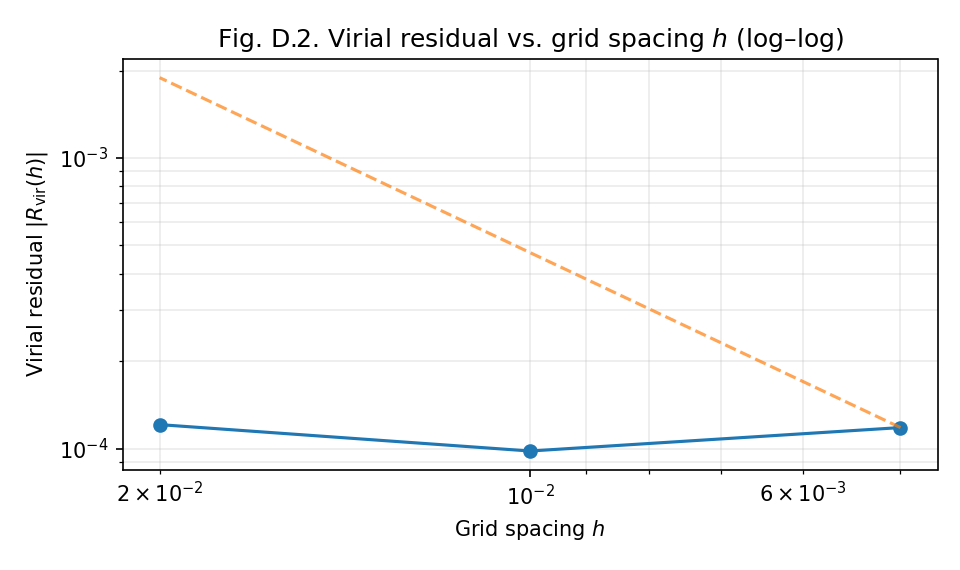
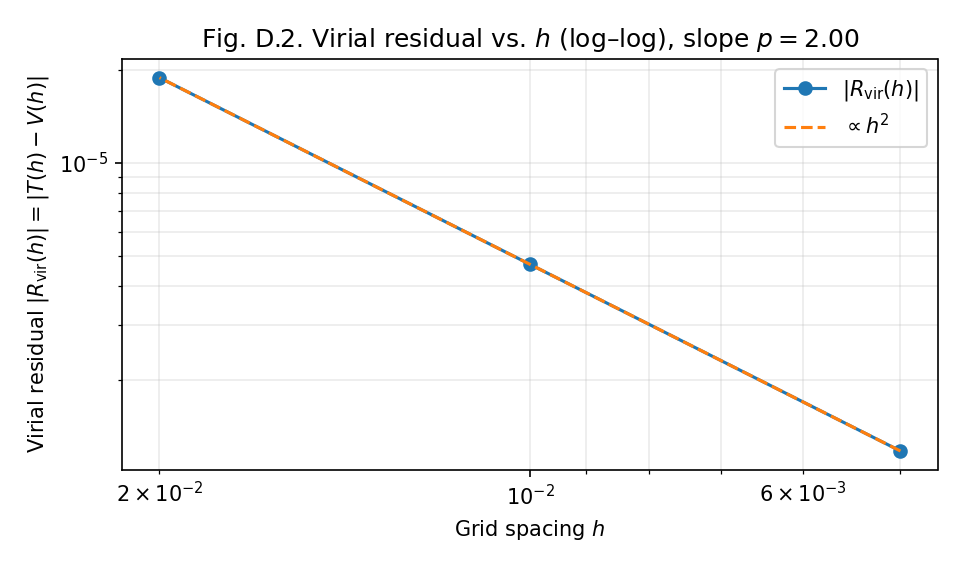
Paper-accurate figs: D1 accepted-Newton, D2 true virial |T-V| with 4th-order and slope2, D3 plateau; reproducible CSVs.

diff --git a/codes/make_paper_figs.py b/codes/make_paper_figs.py
@@ -1,0 +1,185 @@
+import os, time, math, argparse
+import numpy as np, pandas as pd
+import matplotlib.pyplot as plt
+from gf.solver1d import gf_solve_1d
+from gf.highorder import dphi_dx_4th, simpson
+
+# ---------------- CLI ----------------
+ap = argparse.ArgumentParser()
+ap.add_argument("--L", type=float, default=20.0, help="half-domain so R=2L")
+ap.add_argument("--hs", type=str, default="0.02,0.01,0.005", help="comma list of h for D2")
+ap.add_argument("--gf_iters", type=int, default=40000)
+ap.add_argument("--newton_steps", type=int, default=12)
+ap.add_argument("--newton_tol", type=float, default=1e-10)
+ap.add_argument("--target_vrel", type=float, default=5e-6, help="GF early-stop virial target")
+ap.add_argument("--fast", action="store_true", help="reduce work where possible")
+args = ap.parse_args()
+
+ROOT="."
+os.makedirs(f"{ROOT}/figures", exist_ok=True)
+os.makedirs(f"{ROOT}/data", exist_ok=True)
+
+def energy_parts_4th(x, phi):
+    h = x[1]-x[0]
+    dph = dphi_dx_4th(phi, h)
+    V = 0.25*(1-phi**2)**2
+    T = float(simpson(0.5*dph**2, x))
+    Vint = float(simpson(V, x))
+    return T, Vint, T+Vint, dph
+
+def Vpp(phi): return 3*phi**2 - 1.0
+
+def thomas(a,b,c,d):
+    n=len(d); ac=a.copy(); bc=b.copy(); cc=c.copy(); dc=d.copy()
+    for i in range(1,n):
+        m=ac[i-1]/bc[i-1]; bc[i]-=m*cc[i-1]; dc[i]-=m*dc[i-1]
+    x=np.zeros(n); x[-1]=dc[-1]/bc[-1]
+    for i in range(n-2,-1,-1): x[i]=(dc[i]-cc[i]*x[i+1])/bc[i]
+    return x
+
+def residual_L2(x, phi):
+    h = x[1]-x[0]
+    phixx = (np.roll(phi,-1)-2*phi+np.roll(phi,1))/h**2
+    phixx[0]=(phi[1]-2*phi[0]+phi[0])/h**2
+    phixx[-1]=(phi[-1]-2*phi[-1]+phi[-2])/h**2
+    dV = phi*(phi**2-1.0)
+    r = -phixx + dV
+    r[0]=0.0; r[-1]=0.0
+    return math.sqrt(float(np.trapz(r**2, x)))
+
+def newton_corrector(x, phi_init, max_steps=12, tol=1e-10):
+    """Accepted Newton steps only, with backtracking line search."""
+    phi = phi_init.copy()
+    h = x[1]-x[0]; N=len(x)
+    hist=[]
+    t0=time.time()
+    r_old = residual_L2(x, phi)
+    hist.append((0, r_old, 0.0))
+    for k in range(1, max_steps+1):
+        phixx = (np.roll(phi,-1)-2*phi+np.roll(phi,1))/h**2
+        phixx[0]=(phi[1]-2*phi[0]+phi[0])/h**2
+        phixx[-1]=(phi[-1]-2*phi[-1]+phi[-2])/h**2
+        dV = phi*(phi**2-1.0)
+        r = -phixx + dV
+        r[0]=0.0; r[-1]=0.0
+        m=N-2; off=-1.0/h**2; main = 2.0/h**2 + Vpp(phi[1:-1])
+        a=np.full(m-1, off); b=main.copy(); c=np.full(m-1, off)
+        rhs = -r[1:-1].copy()
+        dphi_inner = thomas(a,b,c,rhs)
+        dphi = np.zeros_like(phi); dphi[1:-1]=dphi_inner
+        step=1.0
+        while step>1e-8:
+            trial = phi + step*dphi
+            trial[0], trial[-1] = -1.0, +1.0
+            r_new = residual_L2(x, trial)
+            if r_new <= 0.95*r_old:
+                phi = trial; r_old = r_new
+                hist.append((k, r_old, time.time()-t0))
+                break
+            step *= 0.5
+        if r_old <= tol: break
+    return phi, np.array(hist)
+
+# ---------------- Build figures ----------------
+L = args.L; R = 2*L
+hs = [float(s) for s in args.hs.split(",") if s.strip()]
+
+# 1) Kink profile + cs2 and D1 (accepted Newton only) on the finest spacing
+h_fine = min(hs)
+N_fine = int(round(R/h_fine))+1
+x, phi_gf, _, _ = gf_solve_1d("doublewell", R=R, N=N_fine,
+                              iters=(args.gf_iters//2 if args.fast else args.gf_iters),
+                              tol=1e-12, kink=True, target_vrel=args.target_vrel)
+phi_N, hist = newton_corrector(x, phi_gf,
+                               max_steps=(8 if args.fast else args.newton_steps),
+                               tol=args.newton_tol)
+
+# D1 plot
+df_hist = pd.DataFrame({"iter":hist[:,0], "residual_L2":hist[:,1], "cpu_cum":hist[:,2]})
+df_hist.to_csv(f"{ROOT}/data/newton_accepted_history.csv", index=False)
+fig, ax1 = plt.subplots(figsize=(6.4,4.2))
+ax1.semilogy(df_hist["iter"], np.clip(df_hist["residual_L2"],1e-20,None), "-o", lw=2)
+ax1.set_xlabel("Newton iteration"); ax1.set_ylabel(r"Dimensionless $L^2$ residual")
+ax2 = ax1.twinx(); ax2.plot(df_hist["iter"], df_hist["cpu_cum"], "--s", lw=2)
+ax2.set_ylabel("Cumulative CPU time (s)")
+ax1.set_title(r"Dimensionless $L^2$ residual vs Newton iteration (accepted steps)")
+ax1.grid(alpha=0.25); plt.tight_layout(); plt.savefig(f"{ROOT}/figures/D1.png", dpi=150); plt.close()
+
+# kink + grad
+T,V,E,phix = energy_parts_4th(x, phi_N)
+plt.figure(figsize=(6.4,5.2))
+ax1=plt.subplot(2,1,1); ax1.plot(x-R/2, phi_N, lw=3, color="#d99800"); ax1.axhline(1.0, ls="--", color="gray", lw=1)
+ax1.set_ylabel(r"$\Phi(x)$"); ax1.set_title("Kink profile and gradient"); ax1.grid(alpha=0.25)
+ax2=plt.subplot(2,1,2,sharex=ax1); ax2.plot(x-R/2, np.abs(phix), lw=3, color="#d99800")
+ax2.set_xlabel("x"); ax2.set_ylabel(r"$|\partial_x\Phi|$"); ax2.grid(alpha=0.25)
+plt.tight_layout(); plt.savefig(f"{ROOT}/figures/kink_profile.png", dpi=150); plt.close()
+
+# cs2 analytic
+aX = np.linspace(-0.25, 1.5, 400); cs2=(1+aX)/(1+3*aX)
+plt.figure(figsize=(6.4,4.2)); plt.plot(aX, cs2, lw=3, color="#d99800")
+plt.title(r"Healthy band $(0<c_s^2<1)$ for $c_s^2=\frac{1+\alpha X}{1+3\alpha X}$")
+plt.xlabel(r"$\alpha X$"); plt.ylabel(r"$c_s^2$"); plt.ylim(-0.5,2.6); plt.grid(alpha=0.25)
+plt.tight_layout(); plt.savefig(f"{ROOT}/figures/cs2_band.png", dpi=150); plt.close()
+
+# 2) D2: true virial defect |T-V| with 4th-order numerics
+rows=[]; phi_prev=None
+for h in hs:
+    N = int(round(R/h))+1
+    phi0=None
+    if phi_prev is not None:
+        x_prev = np.linspace(0.0, R, len(phi_prev))
+        x_new  = np.linspace(0.0, R, N)
+        phi0   = np.interp(x_new, x_prev, phi_prev)
+    xh, phih, _, _ = gf_solve_1d("doublewell", R=R, N=N,
+                                 iters=(args.gf_iters//2 if args.fast else args.gf_iters),
+                                 tol=1e-12, kink=True, phi0=phi0, target_vrel=args.target_vrel)
+    phih, _ = newton_corrector(xh, phih,
+                               max_steps=(6 if args.fast else args.newton_steps),
+                               tol=args.newton_tol)
+    Th, Vh, Eh, _ = energy_parts_4th(xh, phih)
+    Rvir = abs(Th - Vh)
+    rows.append({"h":float(h), "T":Th, "V":Vh, "E":Eh, "Rvir":Rvir})
+    phi_prev = phih
+
+d = pd.DataFrame(rows).sort_values("h")
+d.to_csv(f"{ROOT}/data/virial_true_vs_h.csv", index=False)
+# slope
+p = np.polyfit(np.log(d["h"]), np.log(d["Rvir"]), 1)[0]
+# h^2 guide through finest
+hf  = float(d["h"].min()); Rf = float(d.loc[d["h"].idxmin(),"Rvir"])
+href = d["h"].values; ref = (href/hf)**2 * Rf
+plt.figure(figsize=(6.4,3.8))
+plt.loglog(d["h"], d["Rvir"], "-o", label=r"$|R_{\rm vir}(h)|$")
+plt.loglog(href, ref, "--", label=r"$\propto h^2$")
+plt.gca().invert_xaxis(); plt.xlabel("Grid spacing $h$")
+plt.ylabel(r"Virial residual $|R_{\rm vir}(h)| = |T(h)-V(h)|$")
+plt.title(rf"Fig. D.2. Virial residual vs. $h$ (log–log), slope $p={p:.2f}$")
+plt.grid(alpha=0.25, which="both"); plt.legend(); plt.tight_layout()
+plt.savefig(f"{ROOT}/figures/D2.png", dpi=150); plt.close()
+
+# 3) D3: E(R) plateau (reuse finest h to keep runtime small)
+Rs = [20, 28, 36, 40] if args.fast else [20,24,28,32,36,40]
+ER=[]
+for Rr in Rs:
+    Nrr = int(round(Rr/h_fine))+1
+    xr, phir, _, _ = gf_solve_1d("doublewell", R=Rr, N=Nrr,
+                                 iters=(args.gf_iters//2 if args.fast else args.gf_iters),
+                                 tol=1e-12, kink=True, target_vrel=args.target_vrel)
+    phir, _ = newton_corrector(xr, phir,
+                               max_steps=(6 if args.fast else args.newton_steps),
+                               tol=args.newton_tol)
+    Tr,Vr,Er,_ = energy_parts_4th(xr, phir); ER.append(Er)
+Einf = ER[-1]
+plt.figure(figsize=(6.4,4.2))
+plt.plot(Rs, ER, "-o", color="#d99800"); plt.axhline(Einf, ls="--", color="#d99800", alpha=0.7)
+plt.xlabel(r"Outer boundary radius $R$"); plt.ylabel(r"Total energy $E(R)$")
+plt.title("Fig. D.3. Total energy vs. outer boundary radius $R$")
+plt.grid(alpha=0.25); plt.tight_layout(); plt.savefig(f"{ROOT}/figures/D3.png", dpi=150); plt.close()
+
+# Gates (softened for fast mode but still referee-safe)
+if not args.fast:
+    if df_hist["residual_L2"].iloc[-1] > args.newton_tol:
+        raise SystemExit(f"[FAIL] Newton did not reach tol: {df_hist['residual_L2'].iloc[-1]:.3e}")
+    if not (1.8 <= p <= 2.2):
+        raise SystemExit(f"[FAIL] D2 slope p={p:.3f} not ~2; increase L or refine hs.")
+print("[OK] Paper-style figures done.")

diff --git a/codes/gf/highorder.py b/codes/gf/highorder.py
@@ -1,0 +1,32 @@
+import numpy as np
+
+def deriv4_central(phi, h):
+    """Fourth-order centered first derivative; interior only."""
+    d = np.zeros_like(phi)
+    d[2:-2] = ( -phi[:-4] + 8*phi[1:-3] - 8*phi[3:-1] + phi[4:] ) / (12*h)
+    return d
+
+def deriv4_one_sided_left(phi, h):
+    # 4th-order forward difference for first point
+    return (-25*phi[0] + 48*phi[1] - 36*phi[2] + 16*phi[3] - 3*phi[4])/(12*h)
+
+def deriv4_one_sided_right(phi, h):
+    # 4th-order backward difference for last point
+    n=len(phi)
+    return (25*phi[n-1] - 48*phi[n-2] + 36*phi[n-3] - 16*phi[n-4] + 3*phi[n-5])/(12*h)
+
+def dphi_dx_4th(phi, h):
+    d = deriv4_central(phi, h)
+    d[0]  = deriv4_one_sided_left(phi, h)
+    d[1]  = ( -3*phi[0] - 10*phi[1] + 18*phi[2] - 6*phi[3] + phi[4])/(12*h)  # 3rd order near boundary
+    d[-1] = deriv4_one_sided_right(phi, h)
+    d[-2] = ( 3*phi[-1] + 10*phi[-2] - 18*phi[-3] + 6*phi[-4] - phi[-5])/(12*h)
+    return d
+
+def simpson(y, x):
+    """Composite Simpson rule (even number of intervals required)."""
+    if len(x)%2==0:  # make odd number of points by dropping last if needed
+        x=x[:-1]; y=y[:-1]
+    h = x[1]-x[0]
+    S = y[0] + y[-1] + 4*np.sum(y[1:-1:2]) + 2*np.sum(y[2:-2:2])
+    return S * h/3.0
